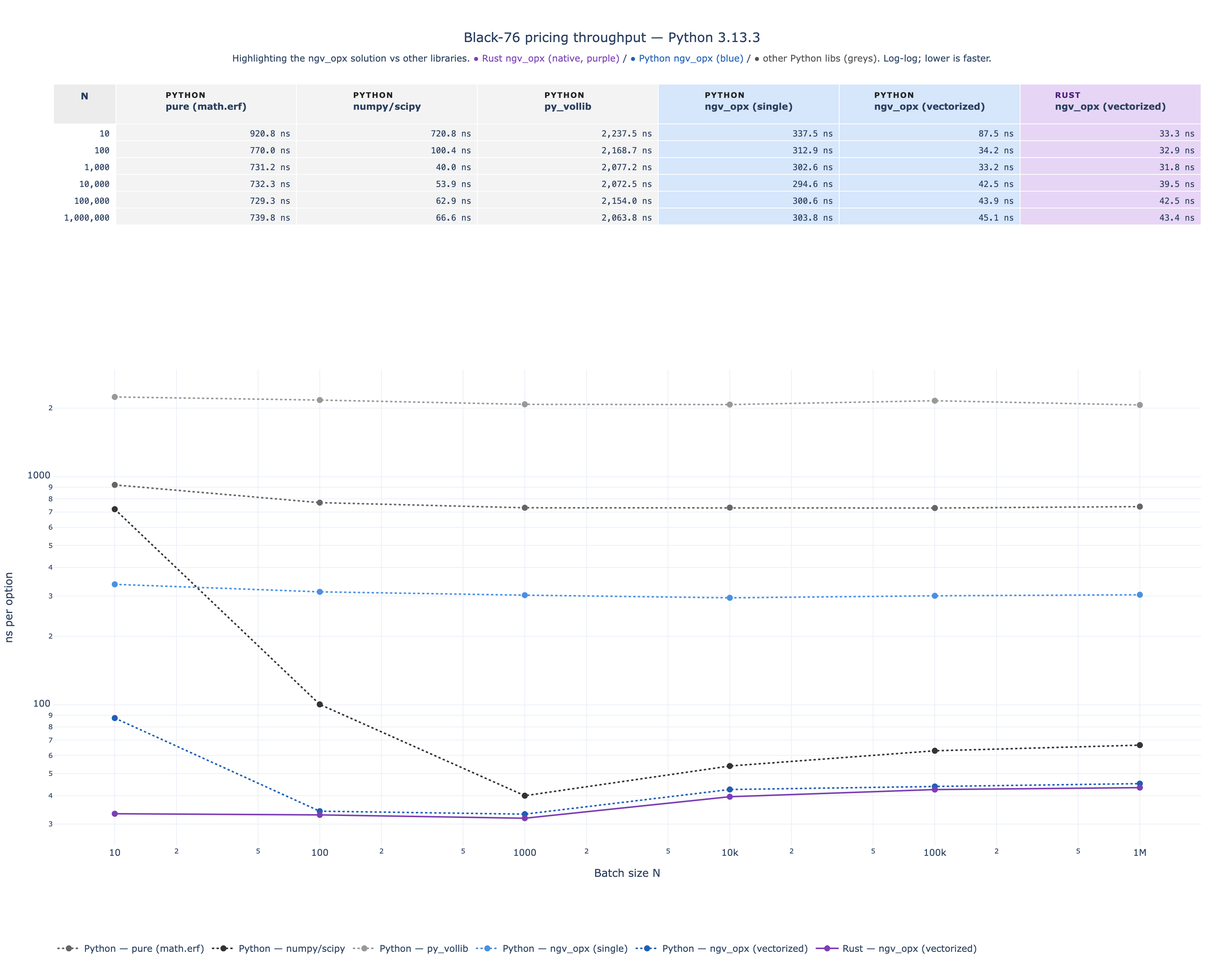
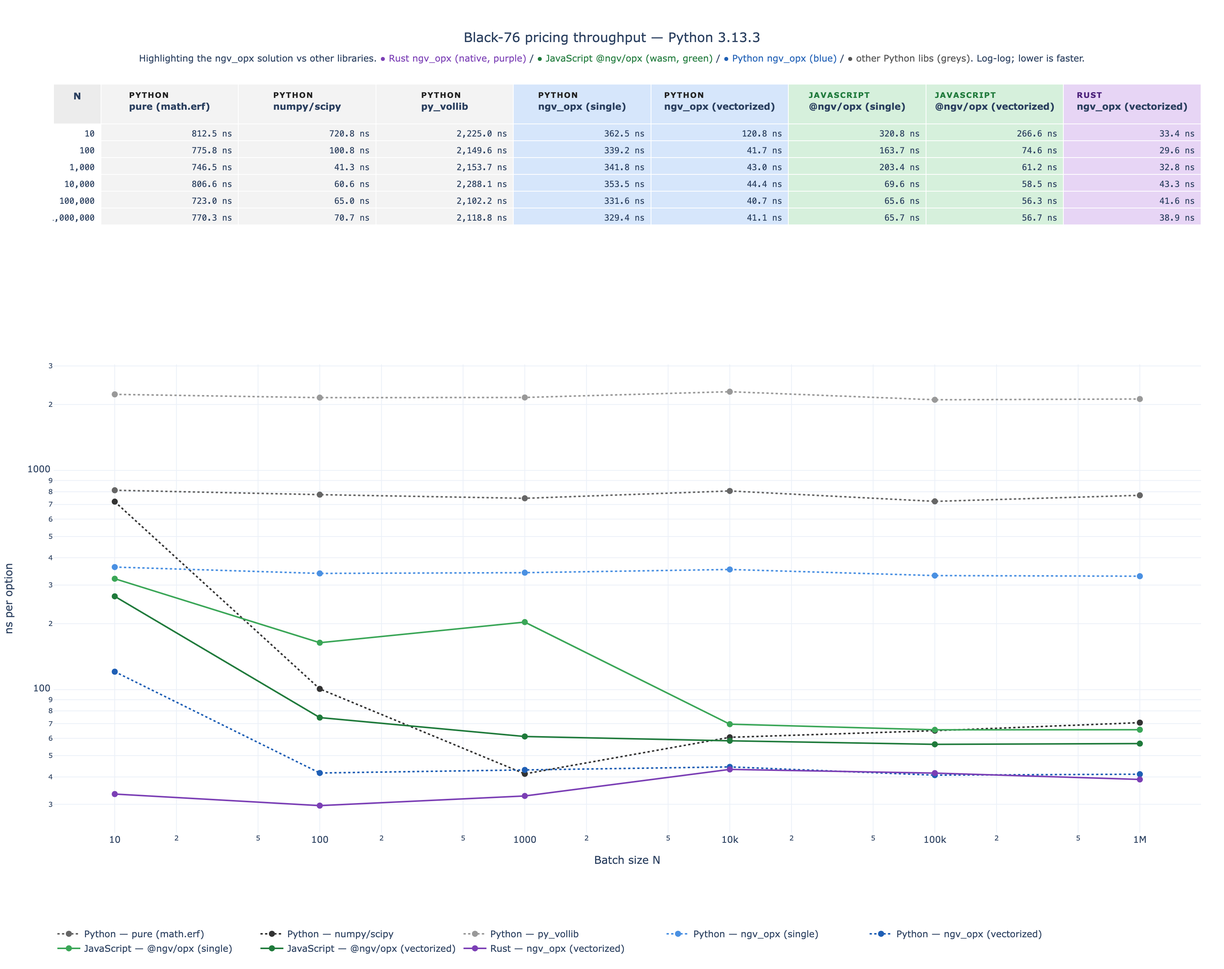
feat(bench): add JavaScript (wasm) columns to benchmark grid
Adds @ngv/opx wasm timings alongside the existing Python/Rust paths.

- benchmarks/bench_wasm.mjs: Node script that times black76 single +
  black76Batch across the same N grid as the Python bench, emits JSON
  on the last stdout line. Mirrors the bench_native.rs subprocess
  contract used for the native Rust column.
- bench_chart.py: subprocesses node bench_wasm.mjs (alongside cargo
  bench_native), adds two JavaScript rows with green color/chip and a
  third language category in the table header.
- bench_cpu.py: same Node subprocess invoked once at startup, fills
  js-single / js-vec columns of the textual table; speedup row now
  skips NaN cells so the formatting stays clean if the JS bench fails.
- update_readme.py: ORDERED and COL_HEADERS now include the two JS
  columns, so \`task bench:readme\` produces a 9-column README table.

Results at N=1M (M3 Pro, Node 22):
  Rust native       38.9 ns/op   (floor)
  Python ngv-vec    41.1 ns/op
  JS @ngv/opx vec   56.7 ns/op   (wasm; new)
  numpy/scipy       70.7 ns/op
  py_vollib      2,118.8 ns/op

JS columns are best-effort: if \`node\` isn't on PATH or the wasm pkg
hasn't been built, the bench prints a warning and continues with NaN
in those cells.

diff --git a/benchmarks/bench_chart.html b/benchmarks/bench_chart.html
@@ -2,6 +2,6 @@
 <head><meta charset="utf-8" /></head>
 <body>
     <div>                        <script>window.PlotlyConfig = {MathJaxConfig: 'local'};</script>
-        <script charset="utf-8" src="https://cdn.plot.ly/plotly-3.5.0.min.js" integrity="sha256-fHbNLP+GlIXN+efbQec78UkemUz3NJp7UmfGxC1tNxs=" crossorigin="anonymous"></script>                <div id="10184a70-ecdf-449c-bb99-8119094e8521" class="plotly-graph-div" style="height:950px; width:1200px;"></div>            <script>                window.PLOTLYENV=window.PLOTLYENV || {};                                if (document.getElementById("10184a70-ecdf-449c-bb99-8119094e8521")) {                    Plotly.newPlot(                        "10184a70-ecdf-449c-bb99-8119094e8521",                        [{"hovertemplate":"\u003cb\u003ePython — pure (math.erf)\u003c\u002fb\u003e\u003cbr\u003elanguage: Python\u003cbr\u003eN=%{x:,}\u003cbr\u003e%{y:.1f} ns\u002foption\u003cextra\u003e\u003c\u002fextra\u003e","line":{"color":"#666666","dash":"dot","width":2},"marker":{"size":8},"mode":"lines+markers","name":"Python — pure (math.erf)","x":[10,100,1000,10000,100000,1000000],"y":[920.7986295223236,770.0000423938036,731.1670342460275,732.2959019802511,729.3183298315853,739.7920000366867],"type":"scatter","xaxis":"x","yaxis":"y"},{"hovertemplate":"\u003cb\u003ePython — numpy\u002fscipy\u003c\u002fb\u003e\u003cbr\u003elanguage: Python\u003cbr\u003eN=%{x:,}\u003cbr\u003e%{y:.1f} ns\u002foption\u003cextra\u003e\u003c\u002fextra\u003e","line":{"color":"#333333","dash":"dot","width":2},"marker":{"size":8},"mode":"lines+markers","name":"Python — numpy\u002fscipy","x":[10,100,1000,10000,100000,1000000],"y":[720.7971066236496,100.40937922894955,39.95897714048624,53.92921157181263,62.885419465601444,66.5636669145897],"type":"scatter","xaxis":"x","yaxis":"y"},{"hovertemplate":"\u003cb\u003ePython — py_vollib\u003c\u002fb\u003e\u003cbr\u003elanguage: Python\u003cbr\u003eN=%{x:,}\u003cbr\u003e%{y:.1f} ns\u002foption\u003cextra\u003e\u003c\u002fextra\u003e","line":{"color":"#999999","dash":"dot","width":2},"marker":{"size":8},"mode":"lines+markers","name":"Python — py_vollib","x":[10,100,1000,10000,100000,1000000],"y":[2237.502485513687,2168.749924749136,2077.2499265149236,2072.4750007502735,2154.0387510322034,2063.8148749712855],"type":"scatter","xaxis":"x","yaxis":"y"},{"hovertemplate":"\u003cb\u003ePython — ngv_opx (single)\u003c\u002fb\u003e\u003cbr\u003elanguage: Python\u003cbr\u003eN=%{x:,}\u003cbr\u003e%{y:.1f} ns\u002foption\u003cextra\u003e\u003c\u002fextra\u003e","line":{"color":"#4a90e2","dash":"dot","width":2},"marker":{"size":8},"mode":"lines+markers","name":"Python — ngv_opx (single)","x":[10,100,1000,10000,100000,1000000],"y":[337.4996595084667,312.9197284579277,302.5829792022705,294.56670163199306,300.62458012253046,303.7889999104664],"type":"scatter","xaxis":"x","yaxis":"y"},{"hovertemplate":"\u003cb\u003ePython — ngv_opx (vectorized)\u003c\u002fb\u003e\u003cbr\u003elanguage: Python\u003cbr\u003eN=%{x:,}\u003cbr\u003e%{y:.1f} ns\u002foption\u003cextra\u003e\u003c\u002fextra\u003e","line":{"color":"#1f5fb5","dash":"dot","width":2},"marker":{"size":8},"mode":"lines+markers","name":"Python — ngv_opx (vectorized)","x":[10,100,1000,10000,100000,1000000],"y":[87.4977558851242,34.16906110942364,33.16707443445921,42.5333040766418,43.8549998216331,45.14408390969038],"type":"scatter","xaxis":"x","yaxis":"y"},{"hovertemplate":"\u003cb\u003eRust — ngv_opx (vectorized)\u003c\u002fb\u003e\u003cbr\u003elanguage: Rust\u003cbr\u003eN=%{x:,}\u003cbr\u003e%{y:.1f} ns\u002foption\u003cextra\u003e\u003c\u002fextra\u003e","line":{"color":"#7b3fb5","dash":"solid","width":2},"marker":{"size":8},"mode":"lines+markers","name":"Rust — ngv_opx (vectorized)","x":[10,100,1000,10000,100000,1000000],"y":[33.3,32.91,31.834,39.5375,42.5146,43.3503],"type":"scatter","xaxis":"x","yaxis":"y"},{"cells":{"align":"right","fill":{"color":[["white","white","white","white","white","white"],["#f3f3f3","#f3f3f3","#f3f3f3","#f3f3f3","#f3f3f3","#f3f3f3"],["#f3f3f3","#f3f3f3","#f3f3f3","#f3f3f3","#f3f3f3","#f3f3f3"],["#f3f3f3","#f3f3f3","#f3f3f3","#f3f3f3","#f3f3f3","#f3f3f3"],["#d6e6fb","#d6e6fb","#d6e6fb","#d6e6fb","#d6e6fb","#d6e6fb"],["#d6e6fb","#d6e6fb","#d6e6fb","#d6e6fb","#d6e6fb","#d6e6fb"],["#e7d5f5","#e7d5f5","#e7d5f5","#e7d5f5","#e7d5f5","#e7d5f5"]]},"font":{"family":"monospace","size":11},"height":22,"values":[["10","100","1,000","10,000","100,000","1,000,000"],["920.8 ns","770.0 ns","731.2 ns","732.3 ns","729.3 ns","739.8 ns"],["720.8 ns","100.4 ns","40.0 ns","53.9 ns","62.9 ns","66.6 ns"],["2,237.5 ns","2,168.7 ns","2,077.2 ns","2,072.5 ns","2,154.0 ns","2,063.8 ns"],["337.5 ns","312.9 ns","302.6 ns","294.6 ns","300.6 ns","303.8 ns"],["87.5 ns","34.2 ns","33.2 ns","42.5 ns","43.9 ns","45.1 ns"],["33.3 ns","32.9 ns","31.8 ns","39.5 ns","42.5 ns","43.4 ns"]]},"columnwidth":[55,160,160,160,160,160,160],"header":{"align":"center","fill":{"color":["#ececec","#f3f3f3","#f3f3f3","#f3f3f3","#d6e6fb","#d6e6fb","#e7d5f5"]},"font":{"size":12},"height":52,"values":["\u003cb\u003eN\u003c\u002fb\u003e","\u003cspan style='background:#dcdcdc;color:#222222;font-size:10px;font-weight:700;padding:2px 8px;border-radius:3px;letter-spacing:1px;'\u003ePYTHON\u003c\u002fspan\u003e\u003cbr\u003e\u003cb style='font-size:12px'\u003epure (math.erf)\u003c\u002fb\u003e","\u003cspan style='background:#dcdcdc;color:#222222;font-size:10px;font-weight:700;padding:2px 8px;border-radius:3px;letter-spacing:1px;'\u003ePYTHON\u003c\u002fspan\u003e\u003cbr\u003e\u003cb style='font-size:12px'\u003enumpy\u002fscipy\u003c\u002fb\u003e","\u003cspan style='background:#dcdcdc;color:#222222;font-size:10px;font-weight:700;padding:2px 8px;border-radius:3px;letter-spacing:1px;'\u003ePYTHON\u003c\u002fspan\u003e\u003cbr\u003e\u003cb style='font-size:12px'\u003epy_vollib\u003c\u002fb\u003e","\u003cspan style='background:#dcdcdc;color:#222222;font-size:10px;font-weight:700;padding:2px 8px;border-radius:3px;letter-spacing:1px;'\u003ePYTHON\u003c\u002fspan\u003e\u003cbr\u003e\u003cb style='font-size:12px'\u003engv_opx (single)\u003c\u002fb\u003e","\u003cspan style='background:#dcdcdc;color:#222222;font-size:10px;font-weight:700;padding:2px 8px;border-radius:3px;letter-spacing:1px;'\u003ePYTHON\u003c\u002fspan\u003e\u003cbr\u003e\u003cb style='font-size:12px'\u003engv_opx (vectorized)\u003c\u002fb\u003e","\u003cspan style='background:#d8c4ea;color:#4a1f7a;font-size:10px;font-weight:700;padding:2px 8px;border-radius:3px;letter-spacing:1px;'\u003eRUST\u003c\u002fspan\u003e\u003cbr\u003e\u003cb style='font-size:12px'\u003engv_opx (vectorized)\u003c\u002fb\u003e"]},"type":"table","domain":{"x":[0.0,1.0],"y":[0.7056,1.0]}}],                        {"template":{"data":{"barpolar":[{"marker":{"line":{"color":"white","width":0.5},"pattern":{"fillmode":"overlay","size":10,"solidity":0.2}},"type":"barpolar"}],"bar":[{"error_x":{"color":"#2a3f5f"},"error_y":{"color":"#2a3f5f"},"marker":{"line":{"color":"white","width":0.5},"pattern":{"fillmode":"overlay","size":10,"solidity":0.2}},"type":"bar"}],"carpet":[{"aaxis":{"endlinecolor":"#2a3f5f","gridcolor":"#C8D4E3","linecolor":"#C8D4E3","minorgridcolor":"#C8D4E3","startlinecolor":"#2a3f5f"},"baxis":{"endlinecolor":"#2a3f5f","gridcolor":"#C8D4E3","linecolor":"#C8D4E3","minorgridcolor":"#C8D4E3","startlinecolor":"#2a3f5f"},"type":"carpet"}],"choropleth":[{"colorbar":{"outlinewidth":0,"ticks":""},"type":"choropleth"}],"contourcarpet":[{"colorbar":{"outlinewidth":0,"ticks":""},"type":"contourcarpet"}],"contour":[{"colorbar":{"outlinewidth":0,"ticks":""},"colorscale":[[0.0,"#0d0887"],[0.1111111111111111,"#46039f"],[0.2222222222222222,"#7201a8"],[0.3333333333333333,"#9c179e"],[0.4444444444444444,"#bd3786"],[0.5555555555555556,"#d8576b"],[0.6666666666666666,"#ed7953"],[0.7777777777777778,"#fb9f3a"],[0.8888888888888888,"#fdca26"],[1.0,"#f0f921"]],"type":"contour"}],"heatmap":[{"colorbar":{"outlinewidth":0,"ticks":""},"colorscale":[[0.0,"#0d0887"],[0.1111111111111111,"#46039f"],[0.2222222222222222,"#7201a8"],[0.3333333333333333,"#9c179e"],[0.4444444444444444,"#bd3786"],[0.5555555555555556,"#d8576b"],[0.6666666666666666,"#ed7953"],[0.7777777777777778,"#fb9f3a"],[0.8888888888888888,"#fdca26"],[1.0,"#f0f921"]],"type":"heatmap"}],"histogram2dcontour":[{"colorbar":{"outlinewidth":0,"ticks":""},"colorscale":[[0.0,"#0d0887"],[0.1111111111111111,"#46039f"],[0.2222222222222222,"#7201a8"],[0.3333333333333333,"#9c179e"],[0.4444444444444444,"#bd3786"],[0.5555555555555556,"#d8576b"],[0.6666666666666666,"#ed7953"],[0.7777777777777778,"#fb9f3a"],[0.8888888888888888,"#fdca26"],[1.0,"#f0f921"]],"type":"histogram2dcontour"}],"histogram2d":[{"colorbar":{"outlinewidth":0,"ticks":""},"colorscale":[[0.0,"#0d0887"],[0.1111111111111111,"#46039f"],[0.2222222222222222,"#7201a8"],[0.3333333333333333,"#9c179e"],[0.4444444444444444,"#bd3786"],[0.5555555555555556,"#d8576b"],[0.6666666666666666,"#ed7953"],[0.7777777777777778,"#fb9f3a"],[0.8888888888888888,"#fdca26"],[1.0,"#f0f921"]],"type":"histogram2d"}],"histogram":[{"marker":{"pattern":{"fillmode":"overlay","size":10,"solidity":0.2}},"type":"histogram"}],"mesh3d":[{"colorbar":{"outlinewidth":0,"ticks":""},"type":"mesh3d"}],"parcoords":[{"line":{"colorbar":{"outlinewidth":0,"ticks":""}},"type":"parcoords"}],"pie":[{"automargin":true,"type":"pie"}],"scatter3d":[{"line":{"colorbar":{"outlinewidth":0,"ticks":""}},"marker":{"colorbar":{"outlinewidth":0,"ticks":""}},"type":"scatter3d"}],"scattercarpet":[{"marker":{"colorbar":{"outlinewidth":0,"ticks":""}},"type":"scattercarpet"}],"scattergeo":[{"marker":{"colorbar":{"outlinewidth":0,"ticks":""}},"type":"scattergeo"}],"scattergl":[{"marker":{"colorbar":{"outlinewidth":0,"ticks":""}},"type":"scattergl"}],"scattermapbox":[{"marker":{"colorbar":{"outlinewidth":0,"ticks":""}},"type":"scattermapbox"}],"scattermap":[{"marker":{"colorbar":{"outlinewidth":0,"ticks":""}},"type":"scattermap"}],"scatterpolargl":[{"marker":{"colorbar":{"outlinewidth":0,"ticks":""}},"type":"scatterpolargl"}],"scatterpolar":[{"marker":{"colorbar":{"outlinewidth":0,"ticks":""}},"type":"scatterpolar"}],"scatter":[{"fillpattern":{"fillmode":"overlay","size":10,"solidity":0.2},"type":"scatter"}],"scatterternary":[{"marker":{"colorbar":{"outlinewidth":0,"ticks":""}},"type":"scatterternary"}],"surface":[{"colorbar":{"outlinewidth":0,"ticks":""},"colorscale":[[0.0,"#0d0887"],[0.1111111111111111,"#46039f"],[0.2222222222222222,"#7201a8"],[0.3333333333333333,"#9c179e"],[0.4444444444444444,"#bd3786"],[0.5555555555555556,"#d8576b"],[0.6666666666666666,"#ed7953"],[0.7777777777777778,"#fb9f3a"],[0.8888888888888888,"#fdca26"],[1.0,"#f0f921"]],"type":"surface"}],"table":[{"cells":{"fill":{"color":"#EBF0F8"},"line":{"color":"white"}},"header":{"fill":{"color":"#C8D4E3"},"line":{"color":"white"}},"type":"table"}]},"layout":{"annotationdefaults":{"arrowcolor":"#2a3f5f","arrowhead":0,"arrowwidth":1},"autotypenumbers":"strict","coloraxis":{"colorbar":{"outlinewidth":0,"ticks":""}},"colorscale":{"diverging":[[0,"#8e0152"],[0.1,"#c51b7d"],[0.2,"#de77ae"],[0.3,"#f1b6da"],[0.4,"#fde0ef"],[0.5,"#f7f7f7"],[0.6,"#e6f5d0"],[0.7,"#b8e186"],[0.8,"#7fbc41"],[0.9,"#4d9221"],[1,"#276419"]],"sequential":[[0.0,"#0d0887"],[0.1111111111111111,"#46039f"],[0.2222222222222222,"#7201a8"],[0.3333333333333333,"#9c179e"],[0.4444444444444444,"#bd3786"],[0.5555555555555556,"#d8576b"],[0.6666666666666666,"#ed7953"],[0.7777777777777778,"#fb9f3a"],[0.8888888888888888,"#fdca26"],[1.0,"#f0f921"]],"sequentialminus":[[0.0,"#0d0887"],[0.1111111111111111,"#46039f"],[0.2222222222222222,"#7201a8"],[0.3333333333333333,"#9c179e"],[0.4444444444444444,"#bd3786"],[0.5555555555555556,"#d8576b"],[0.6666666666666666,"#ed7953"],[0.7777777777777778,"#fb9f3a"],[0.8888888888888888,"#fdca26"],[1.0,"#f0f921"]]},"colorway":["#636efa","#EF553B","#00cc96","#ab63fa","#FFA15A","#19d3f3","#FF6692","#B6E880","#FF97FF","#FECB52"],"font":{"color":"#2a3f5f"},"geo":{"bgcolor":"white","lakecolor":"white","landcolor":"white","showlakes":true,"showland":true,"subunitcolor":"#C8D4E3"},"hoverlabel":{"align":"left"},"hovermode":"closest","mapbox":{"style":"light"},"paper_bgcolor":"white","plot_bgcolor":"white","polar":{"angularaxis":{"gridcolor":"#EBF0F8","linecolor":"#EBF0F8","ticks":""},"bgcolor":"white","radialaxis":{"gridcolor":"#EBF0F8","linecolor":"#EBF0F8","ticks":""}},"scene":{"xaxis":{"backgroundcolor":"white","gridcolor":"#DFE8F3","gridwidth":2,"linecolor":"#EBF0F8","showbackground":true,"ticks":"","zerolinecolor":"#EBF0F8"},"yaxis":{"backgroundcolor":"white","gridcolor":"#DFE8F3","gridwidth":2,"linecolor":"#EBF0F8","showbackground":true,"ticks":"","zerolinecolor":"#EBF0F8"},"zaxis":{"backgroundcolor":"white","gridcolor":"#DFE8F3","gridwidth":2,"linecolor":"#EBF0F8","showbackground":true,"ticks":"","zerolinecolor":"#EBF0F8"}},"shapedefaults":{"line":{"color":"#2a3f5f"}},"ternary":{"aaxis":{"gridcolor":"#DFE8F3","linecolor":"#A2B1C6","ticks":""},"baxis":{"gridcolor":"#DFE8F3","linecolor":"#A2B1C6","ticks":""},"bgcolor":"white","caxis":{"gridcolor":"#DFE8F3","linecolor":"#A2B1C6","ticks":""}},"title":{"x":0.05},"xaxis":{"automargin":true,"gridcolor":"#EBF0F8","linecolor":"#EBF0F8","ticks":"","title":{"standoff":15},"zerolinecolor":"#EBF0F8","zerolinewidth":2},"yaxis":{"automargin":true,"gridcolor":"#EBF0F8","linecolor":"#EBF0F8","ticks":"","title":{"standoff":15},"zerolinecolor":"#EBF0F8","zerolinewidth":2}}},"xaxis":{"anchor":"y","domain":[0.0,1.0],"title":{"text":"Batch size N"},"type":"log","showgrid":true},"yaxis":{"anchor":"x","domain":[0.0,0.6256],"title":{"text":"ns per option"},"type":"log","showgrid":true},"title":{"text":"Black-76 pricing throughput — Python 3.13.3\u003cbr\u003e\u003csub\u003eHighlighting the ngv_opx solution vs other libraries. \u003cspan style='color:#7b3fb5'\u003e● Rust ngv_opx (native, purple)\u003c\u002fspan\u003e \u002f \u003cspan style='color:#1f5fb5'\u003e● Python ngv_opx (blue)\u003c\u002fspan\u003e \u002f \u003cspan style='color:#555'\u003e● other Python libs (greys)\u003c\u002fspan\u003e. Log-log; lower is faster.\u003c\u002fsub\u003e","x":0.5,"xanchor":"center"},"legend":{"orientation":"h","yanchor":"top","y":-0.12,"x":0.0},"margin":{"l":70,"r":30,"t":110,"b":80},"height":950,"width":1200},                        {"responsive": true}                    )                };            </script>        </div>
+        <script charset="utf-8" src="https://cdn.plot.ly/plotly-3.5.0.min.js" integrity="sha256-fHbNLP+GlIXN+efbQec78UkemUz3NJp7UmfGxC1tNxs=" crossorigin="anonymous"></script>                <div id="ebd76883-4f1d-4590-9b44-cddddd05d803" class="plotly-graph-div" style="height:950px; width:1200px;"></div>            <script>                window.PLOTLYENV=window.PLOTLYENV || {};                                if (document.getElementById("ebd76883-4f1d-4590-9b44-cddddd05d803")) {                    Plotly.newPlot(                        "ebd76883-4f1d-4590-9b44-cddddd05d803",                        [{"hovertemplate":"\u003cb\u003ePython — pure (math.erf)\u003c\u002fb\u003e\u003cbr\u003elanguage: Python\u003cbr\u003eN=%{x:,}\u003cbr\u003e%{y:.1f} ns\u002foption\u003cextra\u003e\u003c\u002fextra\u003e","line":{"color":"#666666","dash":"dot","width":2},"marker":{"size":8},"mode":"lines+markers","name":"Python — pure (math.erf)","x":[10,100,1000,10000,100000,1000000],"y":[812.4974556267262,775.8301217108965,746.5418893843889,806.5541042014956,723.0204192455858,770.2985000796616],"type":"scatter","xaxis":"x","yaxis":"y"},{"hovertemplate":"\u003cb\u003ePython — numpy\u002fscipy\u003c\u002fb\u003e\u003cbr\u003elanguage: Python\u003cbr\u003eN=%{x:,}\u003cbr\u003e%{y:.1f} ns\u002foption\u003cextra\u003e\u003c\u002fextra\u003e","line":{"color":"#333333","dash":"dot","width":2},"marker":{"size":8},"mode":"lines+markers","name":"Python — numpy\u002fscipy","x":[10,100,1000,10000,100000,1000000],"y":[720.7971066236496,100.83080269396305,41.29204899072647,60.62500178813935,64.99291048385203,70.71945897769183],"type":"scatter","xaxis":"x","yaxis":"y"},{"hovertemplate":"\u003cb\u003ePython — py_vollib\u003c\u002fb\u003e\u003cbr\u003elanguage: Python\u003cbr\u003eN=%{x:,}\u003cbr\u003e%{y:.1f} ns\u002foption\u003cextra\u003e\u003c\u002fextra\u003e","line":{"color":"#999999","dash":"dot","width":2},"marker":{"size":8},"mode":"lines+markers","name":"Python — py_vollib","x":[10,100,1000,10000,100000,1000000],"y":[2224.9994799494743,2149.5798137038946,2153.7079010158777,2288.054197560996,2102.233750047162,2118.8340419903398],"type":"scatter","xaxis":"x","yaxis":"y"},{"hovertemplate":"\u003cb\u003ePython — ngv_opx (single)\u003c\u002fb\u003e\u003cbr\u003elanguage: Python\u003cbr\u003eN=%{x:,}\u003cbr\u003e%{y:.1f} ns\u002foption\u003cextra\u003e\u003c\u002fextra\u003e","line":{"color":"#4a90e2","dash":"dot","width":2},"marker":{"size":8},"mode":"lines+markers","name":"Python — ngv_opx (single)","x":[10,100,1000,10000,100000,1000000],"y":[362.5056706368923,339.17021937668324,341.8329870328307,353.5083029419184,331.5549995750189,329.39229195471853],"type":"scatter","xaxis":"x","yaxis":"y"},{"hovertemplate":"\u003cb\u003ePython — ngv_opx (vectorized)\u003c\u002fb\u003e\u003cbr\u003elanguage: Python\u003cbr\u003eN=%{x:,}\u003cbr\u003e%{y:.1f} ns\u002foption\u003cextra\u003e\u003c\u002fextra\u003e","line":{"color":"#1f5fb5","dash":"dot","width":2},"marker":{"size":8},"mode":"lines+markers","name":"Python — ngv_opx (vectorized)","x":[10,100,1000,10000,100000,1000000],"y":[120.80417945981026,41.67086444795132,43.04107278585434,44.429104309529066,40.746660670265555,41.142583009786904],"type":"scatter","xaxis":"x","yaxis":"y"},{"hovertemplate":"\u003cb\u003eJavaScript — @ngv\u002fopx (single)\u003c\u002fb\u003e\u003cbr\u003elanguage: JavaScript\u003cbr\u003eN=%{x:,}\u003cbr\u003e%{y:.1f} ns\u002foption\u003cextra\u003e\u003c\u002fextra\u003e","line":{"color":"#3aa657","dash":"solid","width":2},"marker":{"size":8},"mode":"lines+markers","name":"JavaScript — @ngv\u002fopx (single)","x":[10,100,1000,10000,100000,1000000],"y":[320.8000000000766,163.74999999996473,203.3750000000012,69.57919999999973,65.57375,65.660542],"type":"scatter","xaxis":"x","yaxis":"y"},{"hovertemplate":"\u003cb\u003eJavaScript — @ngv\u002fopx (vectorized)\u003c\u002fb\u003e\u003cbr\u003elanguage: JavaScript\u003cbr\u003eN=%{x:,}\u003cbr\u003e%{y:.1f} ns\u002foption\u003cextra\u003e\u003c\u002fextra\u003e","line":{"color":"#1f7a3b","dash":"solid","width":2},"marker":{"size":8},"mode":"lines+markers","name":"JavaScript — @ngv\u002fopx (vectorized)","x":[10,100,1000,10000,100000,1000000],"y":[266.5999999997837,74.57999999999743,61.16700000000108,58.47090000000001,56.32333000000003,56.74587500000001],"type":"scatter","xaxis":"x","yaxis":"y"},{"hovertemplate":"\u003cb\u003eRust — ngv_opx (vectorized)\u003c\u002fb\u003e\u003cbr\u003elanguage: Rust\u003cbr\u003eN=%{x:,}\u003cbr\u003e%{y:.1f} ns\u002foption\u003cextra\u003e\u003c\u002fextra\u003e","line":{"color":"#7b3fb5","dash":"solid","width":2},"marker":{"size":8},"mode":"lines+markers","name":"Rust — ngv_opx (vectorized)","x":[10,100,1000,10000,100000,1000000],"y":[33.4,29.58,32.75,43.275,41.63,38.9328],"type":"scatter","xaxis":"x","yaxis":"y"},{"cells":{"align":"right","fill":{"color":[["white","white","white","white","white","white"],["#f3f3f3","#f3f3f3","#f3f3f3","#f3f3f3","#f3f3f3","#f3f3f3"],["#f3f3f3","#f3f3f3","#f3f3f3","#f3f3f3","#f3f3f3","#f3f3f3"],["#f3f3f3","#f3f3f3","#f3f3f3","#f3f3f3","#f3f3f3","#f3f3f3"],["#d6e6fb","#d6e6fb","#d6e6fb","#d6e6fb","#d6e6fb","#d6e6fb"],["#d6e6fb","#d6e6fb","#d6e6fb","#d6e6fb","#d6e6fb","#d6e6fb"],["#d6f0dc","#d6f0dc","#d6f0dc","#d6f0dc","#d6f0dc","#d6f0dc"],["#d6f0dc","#d6f0dc","#d6f0dc","#d6f0dc","#d6f0dc","#d6f0dc"],["#e7d5f5","#e7d5f5","#e7d5f5","#e7d5f5","#e7d5f5","#e7d5f5"]]},"font":{"family":"monospace","size":11},"height":22,"values":[["10","100","1,000","10,000","100,000","1,000,000"],["812.5 ns","775.8 ns","746.5 ns","806.6 ns","723.0 ns","770.3 ns"],["720.8 ns","100.8 ns","41.3 ns","60.6 ns","65.0 ns","70.7 ns"],["2,225.0 ns","2,149.6 ns","2,153.7 ns","2,288.1 ns","2,102.2 ns","2,118.8 ns"],["362.5 ns","339.2 ns","341.8 ns","353.5 ns","331.6 ns","329.4 ns"],["120.8 ns","41.7 ns","43.0 ns","44.4 ns","40.7 ns","41.1 ns"],["320.8 ns","163.7 ns","203.4 ns","69.6 ns","65.6 ns","65.7 ns"],["266.6 ns","74.6 ns","61.2 ns","58.5 ns","56.3 ns","56.7 ns"],["33.4 ns","29.6 ns","32.8 ns","43.3 ns","41.6 ns","38.9 ns"]]},"columnwidth":[55,160,160,160,160,160,160,160,160],"header":{"align":"center","fill":{"color":["#ececec","#f3f3f3","#f3f3f3","#f3f3f3","#d6e6fb","#d6e6fb","#d6f0dc","#d6f0dc","#e7d5f5"]},"font":{"size":12},"height":52,"values":["\u003cb\u003eN\u003c\u002fb\u003e","\u003cspan style='background:#dcdcdc;color:#222222;font-size:10px;font-weight:700;padding:2px 8px;border-radius:3px;letter-spacing:1px;'\u003ePYTHON\u003c\u002fspan\u003e\u003cbr\u003e\u003cb style='font-size:12px'\u003epure (math.erf)\u003c\u002fb\u003e","\u003cspan style='background:#dcdcdc;color:#222222;font-size:10px;font-weight:700;padding:2px 8px;border-radius:3px;letter-spacing:1px;'\u003ePYTHON\u003c\u002fspan\u003e\u003cbr\u003e\u003cb style='font-size:12px'\u003enumpy\u002fscipy\u003c\u002fb\u003e","\u003cspan style='background:#dcdcdc;color:#222222;font-size:10px;font-weight:700;padding:2px 8px;border-radius:3px;letter-spacing:1px;'\u003ePYTHON\u003c\u002fspan\u003e\u003cbr\u003e\u003cb style='font-size:12px'\u003epy_vollib\u003c\u002fb\u003e","\u003cspan style='background:#dcdcdc;color:#222222;font-size:10px;font-weight:700;padding:2px 8px;border-radius:3px;letter-spacing:1px;'\u003ePYTHON\u003c\u002fspan\u003e\u003cbr\u003e\u003cb style='font-size:12px'\u003engv_opx (single)\u003c\u002fb\u003e","\u003cspan style='background:#dcdcdc;color:#222222;font-size:10px;font-weight:700;padding:2px 8px;border-radius:3px;letter-spacing:1px;'\u003ePYTHON\u003c\u002fspan\u003e\u003cbr\u003e\u003cb style='font-size:12px'\u003engv_opx (vectorized)\u003c\u002fb\u003e","\u003cspan style='background:#c8e6cf;color:#1f7a3b;font-size:10px;font-weight:700;padding:2px 8px;border-radius:3px;letter-spacing:1px;'\u003eJAVASCRIPT\u003c\u002fspan\u003e\u003cbr\u003e\u003cb style='font-size:12px'\u003e@ngv\u002fopx (single)\u003c\u002fb\u003e","\u003cspan style='background:#c8e6cf;color:#1f7a3b;font-size:10px;font-weight:700;padding:2px 8px;border-radius:3px;letter-spacing:1px;'\u003eJAVASCRIPT\u003c\u002fspan\u003e\u003cbr\u003e\u003cb style='font-size:12px'\u003e@ngv\u002fopx (vectorized)\u003c\u002fb\u003e","\u003cspan style='background:#d8c4ea;color:#4a1f7a;font-size:10px;font-weight:700;padding:2px 8px;border-radius:3px;letter-spacing:1px;'\u003eRUST\u003c\u002fspan\u003e\u003cbr\u003e\u003cb style='font-size:12px'\u003engv_opx (vectorized)\u003c\u002fb\u003e"]},"type":"table","domain":{"x":[0.0,1.0],"y":[0.7056,1.0]}}],                        {"template":{"data":{"barpolar":[{"marker":{"line":{"color":"white","width":0.5},"pattern":{"fillmode":"overlay","size":10,"solidity":0.2}},"type":"barpolar"}],"bar":[{"error_x":{"color":"#2a3f5f"},"error_y":{"color":"#2a3f5f"},"marker":{"line":{"color":"white","width":0.5},"pattern":{"fillmode":"overlay","size":10,"solidity":0.2}},"type":"bar"}],"carpet":[{"aaxis":{"endlinecolor":"#2a3f5f","gridcolor":"#C8D4E3","linecolor":"#C8D4E3","minorgridcolor":"#C8D4E3","startlinecolor":"#2a3f5f"},"baxis":{"endlinecolor":"#2a3f5f","gridcolor":"#C8D4E3","linecolor":"#C8D4E3","minorgridcolor":"#C8D4E3","startlinecolor":"#2a3f5f"},"type":"carpet"}],"choropleth":[{"colorbar":{"outlinewidth":0,"ticks":""},"type":"choropleth"}],"contourcarpet":[{"colorbar":{"outlinewidth":0,"ticks":""},"type":"contourcarpet"}],"contour":[{"colorbar":{"outlinewidth":0,"ticks":""},"colorscale":[[0.0,"#0d0887"],[0.1111111111111111,"#46039f"],[0.2222222222222222,"#7201a8"],[0.3333333333333333,"#9c179e"],[0.4444444444444444,"#bd3786"],[0.5555555555555556,"#d8576b"],[0.6666666666666666,"#ed7953"],[0.7777777777777778,"#fb9f3a"],[0.8888888888888888,"#fdca26"],[1.0,"#f0f921"]],"type":"contour"}],"heatmap":[{"colorbar":{"outlinewidth":0,"ticks":""},"colorscale":[[0.0,"#0d0887"],[0.1111111111111111,"#46039f"],[0.2222222222222222,"#7201a8"],[0.3333333333333333,"#9c179e"],[0.4444444444444444,"#bd3786"],[0.5555555555555556,"#d8576b"],[0.6666666666666666,"#ed7953"],[0.7777777777777778,"#fb9f3a"],[0.8888888888888888,"#fdca26"],[1.0,"#f0f921"]],"type":"heatmap"}],"histogram2dcontour":[{"colorbar":{"outlinewidth":0,"ticks":""},"colorscale":[[0.0,"#0d0887"],[0.1111111111111111,"#46039f"],[0.2222222222222222,"#7201a8"],[0.3333333333333333,"#9c179e"],[0.4444444444444444,"#bd3786"],[0.5555555555555556,"#d8576b"],[0.6666666666666666,"#ed7953"],[0.7777777777777778,"#fb9f3a"],[0.8888888888888888,"#fdca26"],[1.0,"#f0f921"]],"type":"histogram2dcontour"}],"histogram2d":[{"colorbar":{"outlinewidth":0,"ticks":""},"colorscale":[[0.0,"#0d0887"],[0.1111111111111111,"#46039f"],[0.2222222222222222,"#7201a8"],[0.3333333333333333,"#9c179e"],[0.4444444444444444,"#bd3786"],[0.5555555555555556,"#d8576b"],[0.6666666666666666,"#ed7953"],[0.7777777777777778,"#fb9f3a"],[0.8888888888888888,"#fdca26"],[1.0,"#f0f921"]],"type":"histogram2d"}],"histogram":[{"marker":{"pattern":{"fillmode":"overlay","size":10,"solidity":0.2}},"type":"histogram"}],"mesh3d":[{"colorbar":{"outlinewidth":0,"ticks":""},"type":"mesh3d"}],"parcoords":[{"line":{"colorbar":{"outlinewidth":0,"ticks":""}},"type":"parcoords"}],"pie":[{"automargin":true,"type":"pie"}],"scatter3d":[{"line":{"colorbar":{"outlinewidth":0,"ticks":""}},"marker":{"colorbar":{"outlinewidth":0,"ticks":""}},"type":"scatter3d"}],"scattercarpet":[{"marker":{"colorbar":{"outlinewidth":0,"ticks":""}},"type":"scattercarpet"}],"scattergeo":[{"marker":{"colorbar":{"outlinewidth":0,"ticks":""}},"type":"scattergeo"}],"scattergl":[{"marker":{"colorbar":{"outlinewidth":0,"ticks":""}},"type":"scattergl"}],"scattermapbox":[{"marker":{"colorbar":{"outlinewidth":0,"ticks":""}},"type":"scattermapbox"}],"scattermap":[{"marker":{"colorbar":{"outlinewidth":0,"ticks":""}},"type":"scattermap"}],"scatterpolargl":[{"marker":{"colorbar":{"outlinewidth":0,"ticks":""}},"type":"scatterpolargl"}],"scatterpolar":[{"marker":{"colorbar":{"outlinewidth":0,"ticks":""}},"type":"scatterpolar"}],"scatter":[{"fillpattern":{"fillmode":"overlay","size":10,"solidity":0.2},"type":"scatter"}],"scatterternary":[{"marker":{"colorbar":{"outlinewidth":0,"ticks":""}},"type":"scatterternary"}],"surface":[{"colorbar":{"outlinewidth":0,"ticks":""},"colorscale":[[0.0,"#0d0887"],[0.1111111111111111,"#46039f"],[0.2222222222222222,"#7201a8"],[0.3333333333333333,"#9c179e"],[0.4444444444444444,"#bd3786"],[0.5555555555555556,"#d8576b"],[0.6666666666666666,"#ed7953"],[0.7777777777777778,"#fb9f3a"],[0.8888888888888888,"#fdca26"],[1.0,"#f0f921"]],"type":"surface"}],"table":[{"cells":{"fill":{"color":"#EBF0F8"},"line":{"color":"white"}},"header":{"fill":{"color":"#C8D4E3"},"line":{"color":"white"}},"type":"table"}]},"layout":{"annotationdefaults":{"arrowcolor":"#2a3f5f","arrowhead":0,"arrowwidth":1},"autotypenumbers":"strict","coloraxis":{"colorbar":{"outlinewidth":0,"ticks":""}},"colorscale":{"diverging":[[0,"#8e0152"],[0.1,"#c51b7d"],[0.2,"#de77ae"],[0.3,"#f1b6da"],[0.4,"#fde0ef"],[0.5,"#f7f7f7"],[0.6,"#e6f5d0"],[0.7,"#b8e186"],[0.8,"#7fbc41"],[0.9,"#4d9221"],[1,"#276419"]],"sequential":[[0.0,"#0d0887"],[0.1111111111111111,"#46039f"],[0.2222222222222222,"#7201a8"],[0.3333333333333333,"#9c179e"],[0.4444444444444444,"#bd3786"],[0.5555555555555556,"#d8576b"],[0.6666666666666666,"#ed7953"],[0.7777777777777778,"#fb9f3a"],[0.8888888888888888,"#fdca26"],[1.0,"#f0f921"]],"sequentialminus":[[0.0,"#0d0887"],[0.1111111111111111,"#46039f"],[0.2222222222222222,"#7201a8"],[0.3333333333333333,"#9c179e"],[0.4444444444444444,"#bd3786"],[0.5555555555555556,"#d8576b"],[0.6666666666666666,"#ed7953"],[0.7777777777777778,"#fb9f3a"],[0.8888888888888888,"#fdca26"],[1.0,"#f0f921"]]},"colorway":["#636efa","#EF553B","#00cc96","#ab63fa","#FFA15A","#19d3f3","#FF6692","#B6E880","#FF97FF","#FECB52"],"font":{"color":"#2a3f5f"},"geo":{"bgcolor":"white","lakecolor":"white","landcolor":"white","showlakes":true,"showland":true,"subunitcolor":"#C8D4E3"},"hoverlabel":{"align":"left"},"hovermode":"closest","mapbox":{"style":"light"},"paper_bgcolor":"white","plot_bgcolor":"white","polar":{"angularaxis":{"gridcolor":"#EBF0F8","linecolor":"#EBF0F8","ticks":""},"bgcolor":"white","radialaxis":{"gridcolor":"#EBF0F8","linecolor":"#EBF0F8","ticks":""}},"scene":{"xaxis":{"backgroundcolor":"white","gridcolor":"#DFE8F3","gridwidth":2,"linecolor":"#EBF0F8","showbackground":true,"ticks":"","zerolinecolor":"#EBF0F8"},"yaxis":{"backgroundcolor":"white","gridcolor":"#DFE8F3","gridwidth":2,"linecolor":"#EBF0F8","showbackground":true,"ticks":"","zerolinecolor":"#EBF0F8"},"zaxis":{"backgroundcolor":"white","gridcolor":"#DFE8F3","gridwidth":2,"linecolor":"#EBF0F8","showbackground":true,"ticks":"","zerolinecolor":"#EBF0F8"}},"shapedefaults":{"line":{"color":"#2a3f5f"}},"ternary":{"aaxis":{"gridcolor":"#DFE8F3","linecolor":"#A2B1C6","ticks":""},"baxis":{"gridcolor":"#DFE8F3","linecolor":"#A2B1C6","ticks":""},"bgcolor":"white","caxis":{"gridcolor":"#DFE8F3","linecolor":"#A2B1C6","ticks":""}},"title":{"x":0.05},"xaxis":{"automargin":true,"gridcolor":"#EBF0F8","linecolor":"#EBF0F8","ticks":"","title":{"standoff":15},"zerolinecolor":"#EBF0F8","zerolinewidth":2},"yaxis":{"automargin":true,"gridcolor":"#EBF0F8","linecolor":"#EBF0F8","ticks":"","title":{"standoff":15},"zerolinecolor":"#EBF0F8","zerolinewidth":2}}},"xaxis":{"anchor":"y","domain":[0.0,1.0],"title":{"text":"Batch size N"},"type":"log","showgrid":true},"yaxis":{"anchor":"x","domain":[0.0,0.6256],"title":{"text":"ns per option"},"type":"log","showgrid":true},"title":{"text":"Black-76 pricing throughput — Python 3.13.3\u003cbr\u003e\u003csub\u003eHighlighting the ngv_opx solution vs other libraries. \u003cspan style='color:#7b3fb5'\u003e● Rust ngv_opx (native, purple)\u003c\u002fspan\u003e \u002f \u003cspan style='color:#1f7a3b'\u003e● JavaScript @ngv\u002fopx (wasm, green)\u003c\u002fspan\u003e \u002f \u003cspan style='color:#1f5fb5'\u003e● Python ngv_opx (blue)\u003c\u002fspan\u003e \u002f \u003cspan style='color:#555'\u003e● other Python libs (greys)\u003c\u002fspan\u003e. Log-log; lower is faster.\u003c\u002fsub\u003e","x":0.5,"xanchor":"center"},"legend":{"orientation":"h","yanchor":"top","y":-0.12,"x":0.0},"margin":{"l":70,"r":30,"t":110,"b":80},"height":950,"width":1200},                        {"responsive": true}                    )                };            </script>        </div>
 </body>
 </html>

diff --git a/benchmarks/bench_chart.py b/benchmarks/bench_chart.py
@@ -99,6 +99,8 @@ def collect():
         "Python — numpy/scipy":            {},
         "Python — ngv_opx (single)":       {},
         "Python — ngv_opx (vectorized)":   {},
+        "JavaScript — @ngv/opx (single)":     {},
+        "JavaScript — @ngv/opx (vectorized)": {},
         "Rust — ngv_opx (vectorized)":         {},
     }
     for n in SIZES:
@@ -146,6 +148,23 @@ def collect():
     native = json.loads(proc.stdout.strip().splitlines()[-1])
     for n_str, ns in native.items():
         paths["Rust — ngv_opx (vectorized)"][int(n_str)] = float(ns)
+
+    # JavaScript (wasm): same pattern — subprocess Node, parse the last JSON line.
+    # Requires `node` on PATH and bindings/wasm/pkg-node/ already built.
+    print("  running JavaScript (wasm) benchmark via node...", flush=True)
+    try:
+        js_proc = subprocess.run(
+            ["node", str(repo_root / "benchmarks" / "bench_wasm.mjs")],
+            cwd=repo_root, capture_output=True, text=True, check=True,
+        )
+        js = json.loads(js_proc.stdout.strip().splitlines()[-1])
+        for n_str, ns in js["js-single"].items():
+            paths["JavaScript — @ngv/opx (single)"][int(n_str)] = float(ns)
+        for n_str, ns in js["js-vec"].items():
+            paths["JavaScript — @ngv/opx (vectorized)"][int(n_str)] = float(ns)
+    except (subprocess.CalledProcessError, FileNotFoundError) as e:
+        print(f"  warning: skipping JS rows — {type(e).__name__}: {e}", flush=True)
+
     return paths
 
 
@@ -158,9 +177,7 @@ def _fmt_ns(x):
 
 
 def render(paths) -> Path:
-    # Two axes, period:
-    #   Language: Python or Rust (where the option math actually runs)
-    #   Pricer:   py_vollib | pure | numpy/scipy | ngv_opx
+    # Three language axes now: Python, JavaScript (wasm), Rust (native).
     PYTHON_GROUP = [
         "Python — pure (math.erf)",
         "Python — numpy/scipy",
@@ -168,24 +185,32 @@ def render(paths) -> Path:
         "Python — ngv_opx (single)",
         "Python — ngv_opx (vectorized)",
     ]
+    JS_GROUP = [
+        "JavaScript — @ngv/opx (single)",
+        "JavaScript — @ngv/opx (vectorized)",
+    ]
     RUST_GROUP = [
         "Rust — ngv_opx (vectorized)",
     ]
-    ORDERED = PYTHON_GROUP + RUST_GROUP
+    ORDERED = PYTHON_GROUP + JS_GROUP + RUST_GROUP
 
     # Visual differentiation: NGV solution stands out, other libs are muted.
     #   Rust ngv_opx       — purple   (the floor / fastest, highlighted)
-    #   Python ngv_opx     — blue     (the shipped product)
+    #   JavaScript ngv_opx — green    (the new wasm path, highlighted)
+    #   Python ngv_opx     — blue     (the shipped Python product)
     #   Other Python libs  — greys    (the comparison/baseline crowd)
     NGV_PYTHON = {"Python — ngv_opx (single)", "Python — ngv_opx (vectorized)"}
+    NGV_JS = set(JS_GROUP)
     NGV_RUST = {"Rust — ngv_opx (vectorized)"}
 
     color = {
-        "Python — py_vollib":              "#999999",   # grey
-        "Python — pure (math.erf)":        "#666666",   # darker grey
-        "Python — numpy/scipy":            "#333333",   # darkest grey
-        "Python — ngv_opx (single)":       "#4a90e2",   # blue
-        "Python — ngv_opx (vectorized)":   "#1f5fb5",   # darker blue
+        "Python — py_vollib":                  "#999999",   # grey
+        "Python — pure (math.erf)":            "#666666",   # darker grey
+        "Python — numpy/scipy":                "#333333",   # darkest grey
+        "Python — ngv_opx (single)":           "#4a90e2",   # blue
+        "Python — ngv_opx (vectorized)":       "#1f5fb5",   # darker blue
+        "JavaScript — @ngv/opx (single)":      "#3aa657",   # green
+        "JavaScript — @ngv/opx (vectorized)":  "#1f7a3b",   # darker green
         "Rust — ngv_opx (vectorized)":         "#7b3fb5",   # purple
     }
     dash = {n: ("dot" if n in PYTHON_GROUP else "solid") for n in ORDERED}
@@ -193,9 +218,11 @@ def render(paths) -> Path:
     # Column tints — reinforce the "NGV stands out" story.
     OTHER_BG   = "#f3f3f3"  # neutral grey for other Python libs
     NGV_PY_BG  = "#d6e6fb"  # blue for ngv_opx Python rows
+    NGV_JS_BG  = "#d6f0dc"  # green for ngv_opx wasm rows
     NGV_RS_BG  = "#e7d5f5"  # purple for ngv_opx Rust native row
     # Matching "chip" colors for the H1 label badges (light bg, dark text).
     PY_CHIP_BG,   PY_CHIP_FG = "#dcdcdc", "#222222"   # light grey chip, near-black text
+    JS_CHIP_BG,   JS_CHIP_FG = "#c8e6cf", "#1f7a3b"   # light green chip, dark green text
     RS_CHIP_BG,   RS_CHIP_FG = "#d8c4ea", "#4a1f7a"   # lavender chip, dark purple text
 
     # Stacked layout: table on top, chart below. Chart gets the lion's share
@@ -211,7 +238,12 @@ def render(paths) -> Path:
         by_n = paths[name]
         xs = sorted(by_n.keys())
         ys = [by_n[n] for n in xs]
-        lang = "Python" if name in PYTHON_GROUP else "Rust"
+        if name in PYTHON_GROUP:
+            lang = "Python"
+        elif name in JS_GROUP:
+            lang = "JavaScript"
+        else:
+            lang = "Rust"
         fig.add_trace(
             go.Scatter(
                 x=xs, y=ys, mode="lines+markers",
@@ -229,17 +261,21 @@ def render(paths) -> Path:
     # ---- Table: columns grouped by language, header shows lang/pricer split ----
     # H2 framework names (short, shown big and bold).
     pricer_label = {
-        "Python — py_vollib":              "py_vollib",
-        "Python — pure (math.erf)":        "pure (math.erf)",
-        "Python — numpy/scipy":            "numpy/scipy",
-        "Python — ngv_opx (single)":       "ngv_opx (single)",
-        "Python — ngv_opx (vectorized)":   "ngv_opx (vectorized)",
+        "Python — py_vollib":                  "py_vollib",
+        "Python — pure (math.erf)":            "pure (math.erf)",
+        "Python — numpy/scipy":                "numpy/scipy",
+        "Python — ngv_opx (single)":           "ngv_opx (single)",
+        "Python — ngv_opx (vectorized)":       "ngv_opx (vectorized)",
+        "JavaScript — @ngv/opx (single)":      "@ngv/opx (single)",
+        "JavaScript — @ngv/opx (vectorized)":  "@ngv/opx (vectorized)",
         "Rust — ngv_opx (vectorized)":         "ngv_opx (vectorized)",
     }
 
     def column_bg(name: str) -> str:
         if name in NGV_RUST:
             return NGV_RS_BG
+        if name in NGV_JS:
+            return NGV_JS_BG
         if name in NGV_PYTHON:
             return NGV_PY_BG
         return OTHER_BG
@@ -248,6 +284,8 @@ def render(paths) -> Path:
         """Return an HTML 'chip' for the H1 (language) row."""
         if name in PYTHON_GROUP:
             text, bg, fg = "PYTHON", PY_CHIP_BG, PY_CHIP_FG
+        elif name in JS_GROUP:
+            text, bg, fg = "JAVASCRIPT", JS_CHIP_BG, JS_CHIP_FG
         else:
             text, bg, fg = "RUST", RS_CHIP_BG, RS_CHIP_FG
         return (
@@ -303,6 +341,7 @@ def render(paths) -> Path:
             text=f"Black-76 pricing throughput — Python {pyver}<br>"
                  f"<sub>Highlighting the ngv_opx solution vs other libraries. "
                  f"<span style='color:#7b3fb5'>● Rust ngv_opx (native, purple)</span>"
+                 f" / <span style='color:#1f7a3b'>● JavaScript @ngv/opx (wasm, green)</span>"
                  f" / <span style='color:#1f5fb5'>● Python ngv_opx (blue)</span>"
                  f" / <span style='color:#555'>● other Python libs (greys)</span>. "
                  f"Log-log; lower is faster.</sub>",

diff --git a/benchmarks/bench_cpu.py b/benchmarks/bench_cpu.py
@@ -38,11 +38,39 @@ from py_vollib.black import black as vollib_black
 
 import ngv_opx
 
-COLS = ["py-single", "py-vec", "rs-single", "rs-vec", "vollib"]
+COLS = ["py-single", "py-vec", "rs-single", "rs-vec", "vollib", "js-single", "js-vec"]
 
 RATE = 0.045
 SIZES = [10, 100, 1_000, 10_000, 100_000, 1_000_000]
 SQRT2 = math.sqrt(2.0)
+
+# Filled once at startup by _collect_js_timings(); maps N -> {"js-single": s,
+# "js-vec": s} in seconds-per-batch (already converted from ns/option).
+_JS_TIMINGS: dict[int, dict[str, float]] = {}
+
+
+def _collect_js_timings() -> None:
+    """Subprocess `node benchmarks/bench_wasm.mjs`, parse its JSON, and
+    populate `_JS_TIMINGS`. The JS bench emits ns/option per (path, N); we
+    convert to seconds-per-batch so it slots into the same data model as the
+    Python/Rust paths timed inline in this module."""
+    import subprocess
+    repo_root = Path(__file__).resolve().parent.parent
+    script = repo_root / "benchmarks" / "bench_wasm.mjs"
+    try:
+        proc = subprocess.run(
+            ["node", str(script)],
+            capture_output=True, text=True, check=True,
+        )
+    except (subprocess.CalledProcessError, FileNotFoundError) as e:
+        print(f"warning: skipping JS columns — {type(e).__name__}: {e}", file=sys.stderr)
+        return
+    raw = json.loads(proc.stdout.strip().splitlines()[-1])
+    for n in SIZES:
+        _JS_TIMINGS[n] = {
+            "js-single": raw["js-single"][str(n)] * n / 1e9,
+            "js-vec":    raw["js-vec"][str(n)] * n / 1e9,
+        }
 
 
 # ----------------------------------------------------------------------------
@@ -135,6 +163,8 @@ def _measure_row(n: int) -> dict:
         "rs-single": best_of(rs_single, rep_rs_single),
         "rs-vec":    best_of(rs_vec, rep_fast),
         "vollib":    best_of(vollib_single, rep_slow),
+        "js-single": _JS_TIMINGS.get(n, {}).get("js-single", float("nan")),
+        "js-vec":    _JS_TIMINGS.get(n, {}).get("js-vec",    float("nan")),
     }
 
     # Correctness sanity at the smallest size.
@@ -164,6 +194,11 @@ def _fmt_per(seconds: float, n: int) -> str:
 def run_bench(save_path: Path | None = None):
     pyver = f"{sys.version_info.major}.{sys.version_info.minor}.{sys.version_info.micro}"
     print(f"\nBlack-76 PRICE — Python {pyver}   (best-of-N wall-clock)")
+
+    # JS columns are produced by a separate Node subprocess. Run it once
+    # before the inline Python/Rust grid so every row has the data ready.
+    print("collecting JS (wasm) timings via node...", flush=True)
+    _collect_js_timings()
 
     # Collect raw timings (seconds) into a DataFrame indexed by N.
     raw = pd.DataFrame(
@@ -203,7 +238,11 @@ def run_bench(save_path: Path | None = None):
                 and not math.isnan(raw.at[n, "py-single"]))
     base = raw.at[n_ref, "vollib"]
     speedups = pd.Series(
-        {col: base / raw.at[n_ref, col] for col in COLS if col != "vollib"},
+        {
+            col: base / raw.at[n_ref, col]
+            for col in COLS
+            if col != "vollib" and not math.isnan(raw.at[n_ref, col])
+        },
         name=f"×vs py_vollib @ N={n_ref:,}",
     ).map(lambda x: f"{x:.1f}x")
     print(f"\n— speedups vs py_vollib at N={n_ref:,} (what migrating gets you) —")

diff --git a/benchmarks/update_readme.py b/benchmarks/update_readme.py
@@ -24,6 +24,8 @@ ORDERED = [
     "Python — py_vollib",
     "Python — ngv_opx (single)",
     "Python — ngv_opx (vectorized)",
+    "JavaScript — @ngv/opx (single)",
+    "JavaScript — @ngv/opx (vectorized)",
     "Rust — ngv_opx (vectorized)",
 ]
 
@@ -33,6 +35,8 @@ COL_HEADERS = [
     "py_vollib",
     "ngv_opx (single)",
     "**ngv_opx (vec)**",
+    "JS @ngv/opx (single)",
+    "**JS @ngv/opx (vec)**",
     "**Rust ngv_opx**",
 ]
 

diff --git a/README.md b/README.md
@@ -112,14 +112,14 @@ Black-76 pricing throughput across implementations. Log-log; lower is faster.
 
 Per-option time in nanoseconds (lower is faster). Measured on Python 3.13.3.
 
-| N | Python pure | numpy/scipy | py_vollib | ngv_opx (single) | **ngv_opx (vec)** | **Rust ngv_opx** |
-|---:|---:|---:|---:|---:|---:|---:|
-| 10 | 920.8 | 720.8 | 2,237.5 | 337.5 | 87.5 | 33.3 |
-| 100 | 770.0 | 100.4 | 2,168.7 | 312.9 | 34.2 | 32.9 |
-| 1,000 | 731.2 | 40.0 | 2,077.2 | 302.6 | 33.2 | 31.8 |
-| 10,000 | 732.3 | 53.9 | 2,072.5 | 294.6 | 42.5 | 39.5 |
-| 100,000 | 729.3 | 62.9 | 2,154.0 | 300.6 | 43.9 | 42.5 |
-| 1,000,000 | 739.8 | 66.6 | 2,063.8 | 303.8 | 45.1 | 43.4 |
+| N | Python pure | numpy/scipy | py_vollib | ngv_opx (single) | **ngv_opx (vec)** | JS @ngv/opx (single) | **JS @ngv/opx (vec)** | **Rust ngv_opx** |
+|---:|---:|---:|---:|---:|---:|---:|---:|---:|
+| 10 | 812.5 | 720.8 | 2,225.0 | 362.5 | 120.8 | 320.8 | 266.6 | 33.4 |
+| 100 | 775.8 | 100.8 | 2,149.6 | 339.2 | 41.7 | 163.7 | 74.6 | 29.6 |
+| 1,000 | 746.5 | 41.3 | 2,153.7 | 341.8 | 43.0 | 203.4 | 61.2 | 32.8 |
+| 10,000 | 806.6 | 60.6 | 2,288.1 | 353.5 | 44.4 | 69.6 | 58.5 | 43.3 |
+| 100,000 | 723.0 | 65.0 | 2,102.2 | 331.6 | 40.7 | 65.6 | 56.3 | 41.6 |
+| 1,000,000 | 770.3 | 70.7 | 2,118.8 | 329.4 | 41.1 | 65.7 | 56.7 | 38.9 |
 
 Interactive version: [`benchmarks/bench_chart.html`](benchmarks/bench_chart.html) (open locally; GitHub doesn't render embedded JS).
 
